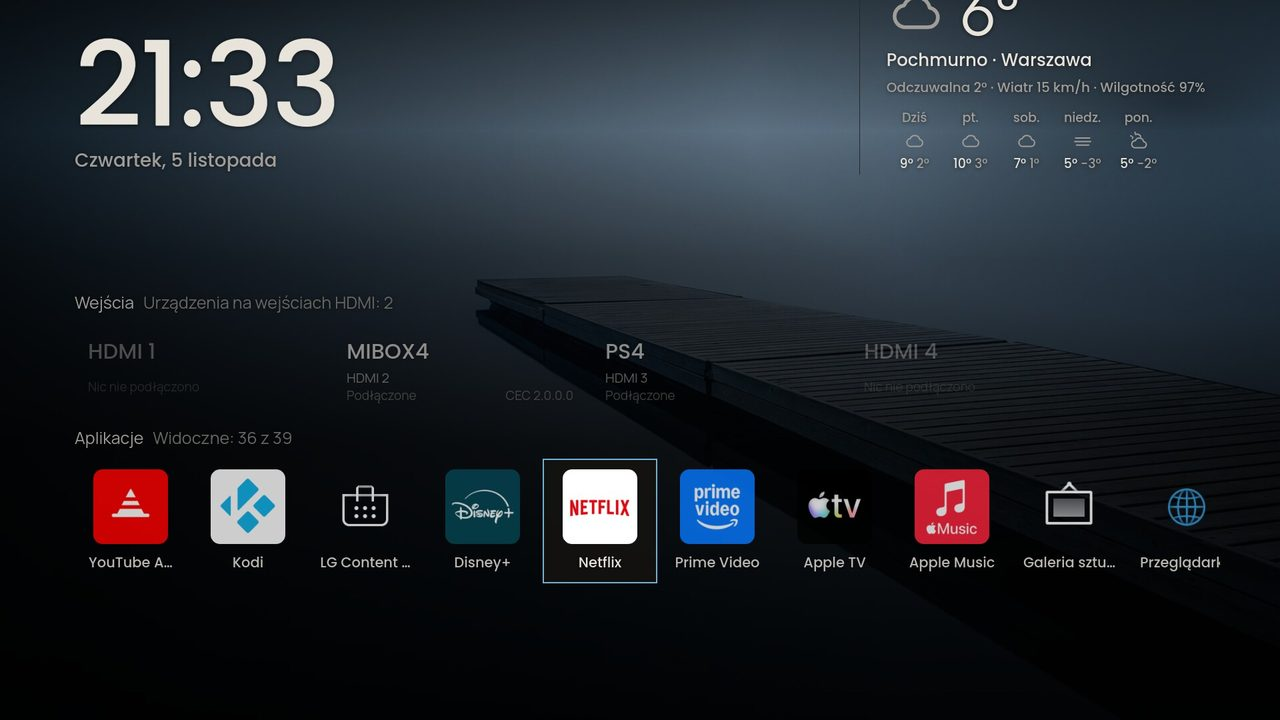
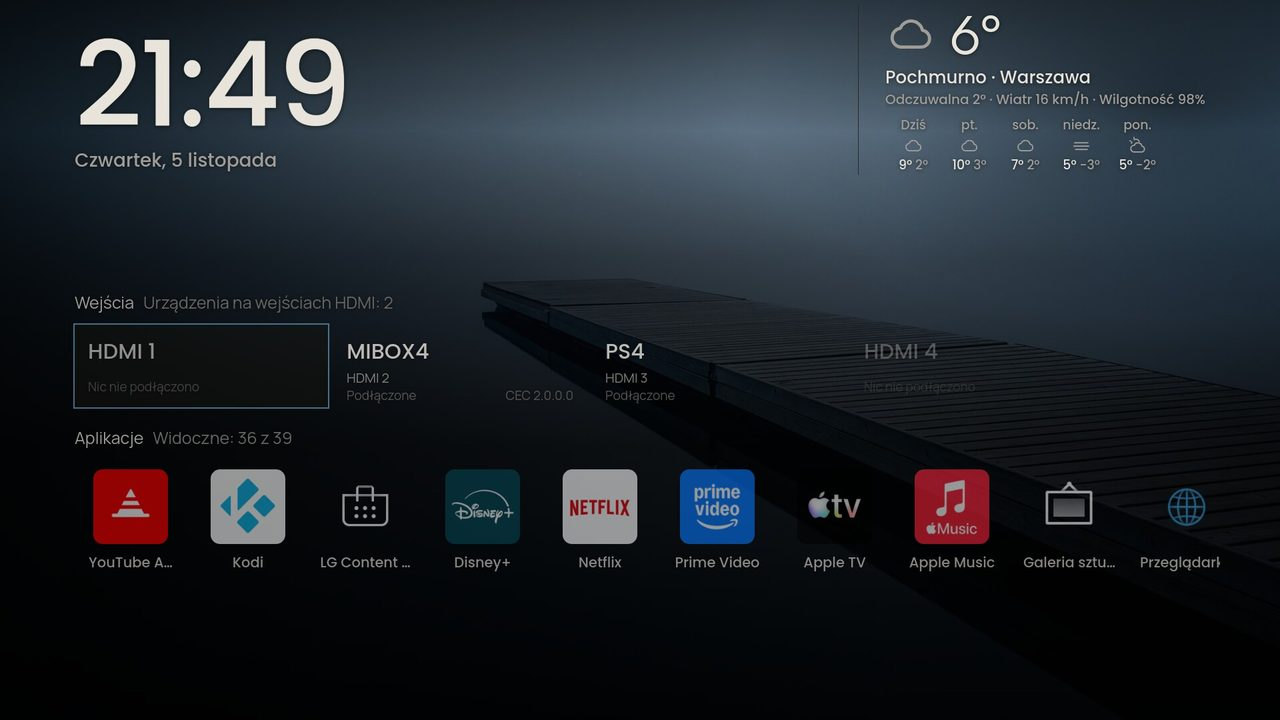
0.139.2: the weather panel keeps to the strip with any theme font
With a theme font of tall metrics (Poppins, the Zen theme) the panel grew
past the strip's 262 px and its top went off the screen. Every line now
has a set height (252 px in all), and the panel is held to the strip.

Claude-Session: https://claude.ai/code/session_01W3LdqnsWxFoGkMF8Eo1rtz

diff --git a/server/assets/home.html b/server/assets/home.html
@@ -56,18 +56,21 @@ html.resting #wall .layer{-webkit-animation-play-state:paused;animation-play-sta
    the conditions' sign and the temperature large, what it is and where,
    feels-like, wind and humidity, and five days below. Left out while the
    preview has that room. */
-#weather{-webkit-flex:0 0 auto;flex:0 0 auto;margin-left:48px;padding:0 0 2px 40px;border-left:1px solid #2a2825;display:none}
+#weather{-webkit-flex:0 1 auto;flex:0 1 auto;min-width:0;max-width:640px;max-height:262px;overflow:hidden;margin-left:48px;padding:0 0 2px 40px;border-left:1px solid #2a2825;display:none}
 #weather.on{display:block}
 #now.previewing #weather{display:none}
 #weather svg{fill:none;stroke:currentColor;stroke-width:1.5;stroke-linecap:round;stroke-linejoin:round}
-#wxNow{display:-webkit-flex;display:flex;-webkit-align-items:center;align-items:center}
-#wxNow svg{width:88px;height:88px;margin-right:22px;color:#a39d93}
-#wxTemp{font-family:'Outfit',sans-serif;font-size:96px;line-height:.85;font-weight:300;letter-spacing:-2px}
-#wxDesc{font-size:26px;margin-top:10px;white-space:nowrap}
-#wxMore{font-size:20px;color:#a39d93;margin-top:6px;white-space:nowrap}
-#wxDays{display:-webkit-flex;display:flex;margin-top:16px}
-#wxDays div{width:84px;text-align:center;font-size:19px;color:#a39d93;white-space:nowrap}
-#wxDays svg{display:block;width:32px;height:32px;margin:4px auto}
+/* Each line has a set height, so a theme's font with tall metrics (Poppins)
+   cannot make the panel taller than the strip and push it off the top: 84 +
+   40 + 30 + 98 = 252 of the strip's 262. */
+#wxNow{display:-webkit-flex;display:flex;-webkit-align-items:center;align-items:center;height:84px;overflow:hidden}
+#wxNow svg{width:76px;height:76px;margin-right:20px;color:#a39d93;-webkit-flex:0 0 auto;flex:0 0 auto}
+#wxTemp{font-family:'Outfit',sans-serif;font-size:84px;line-height:84px;height:84px;font-weight:300;letter-spacing:-2px}
+#wxDesc{font-size:26px;line-height:32px;height:32px;margin-top:8px;white-space:nowrap;overflow:hidden;text-overflow:ellipsis}
+#wxMore{font-size:20px;line-height:26px;height:26px;color:#a39d93;margin-top:4px;white-space:nowrap;overflow:hidden;text-overflow:ellipsis}
+#wxDays{display:-webkit-flex;display:flex;margin-top:14px;height:84px}
+#wxDays div{width:84px;text-align:center;font-size:19px;line-height:24px;color:#a39d93;white-space:nowrap}
+#wxDays svg{display:block;width:30px;height:30px;margin:3px auto}
 #wxDays b{font-weight:400;color:#ece7df}
 /* Switched off, the clock keeps its space, so the rows and Last watched stay put. */
 .no-clock #when{visibility:hidden}

diff --git a/server/tvweb.js b/server/tvweb.js
@@ -19,7 +19,7 @@
  * first 4096 bytes of a downloaded tvweb.js for this line (up to 0.82.2), and
  * refuses a release where it is further down (#586).
  */
-var TVWEB_VERSION = '0.139.1';
+var TVWEB_VERSION = '0.139.2';
 
 var http = require('http');
 var fs = require('fs');
